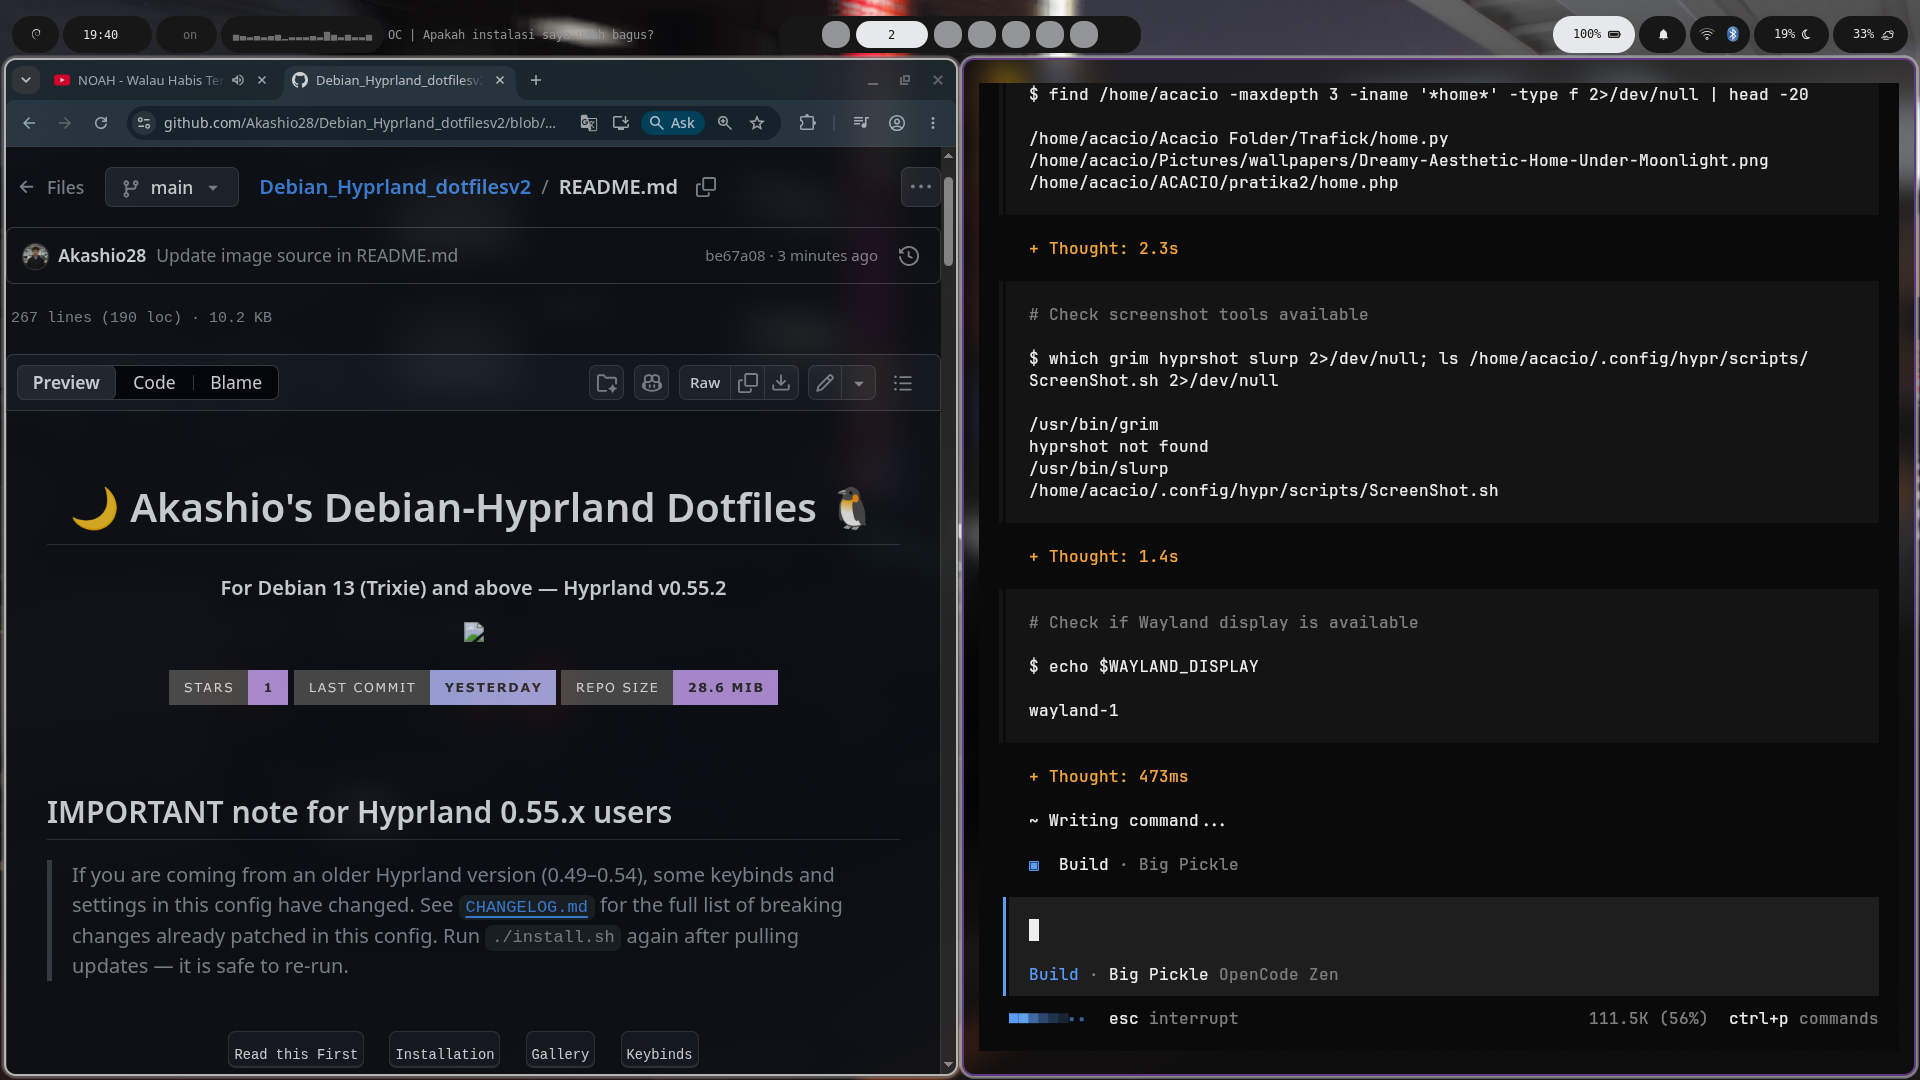
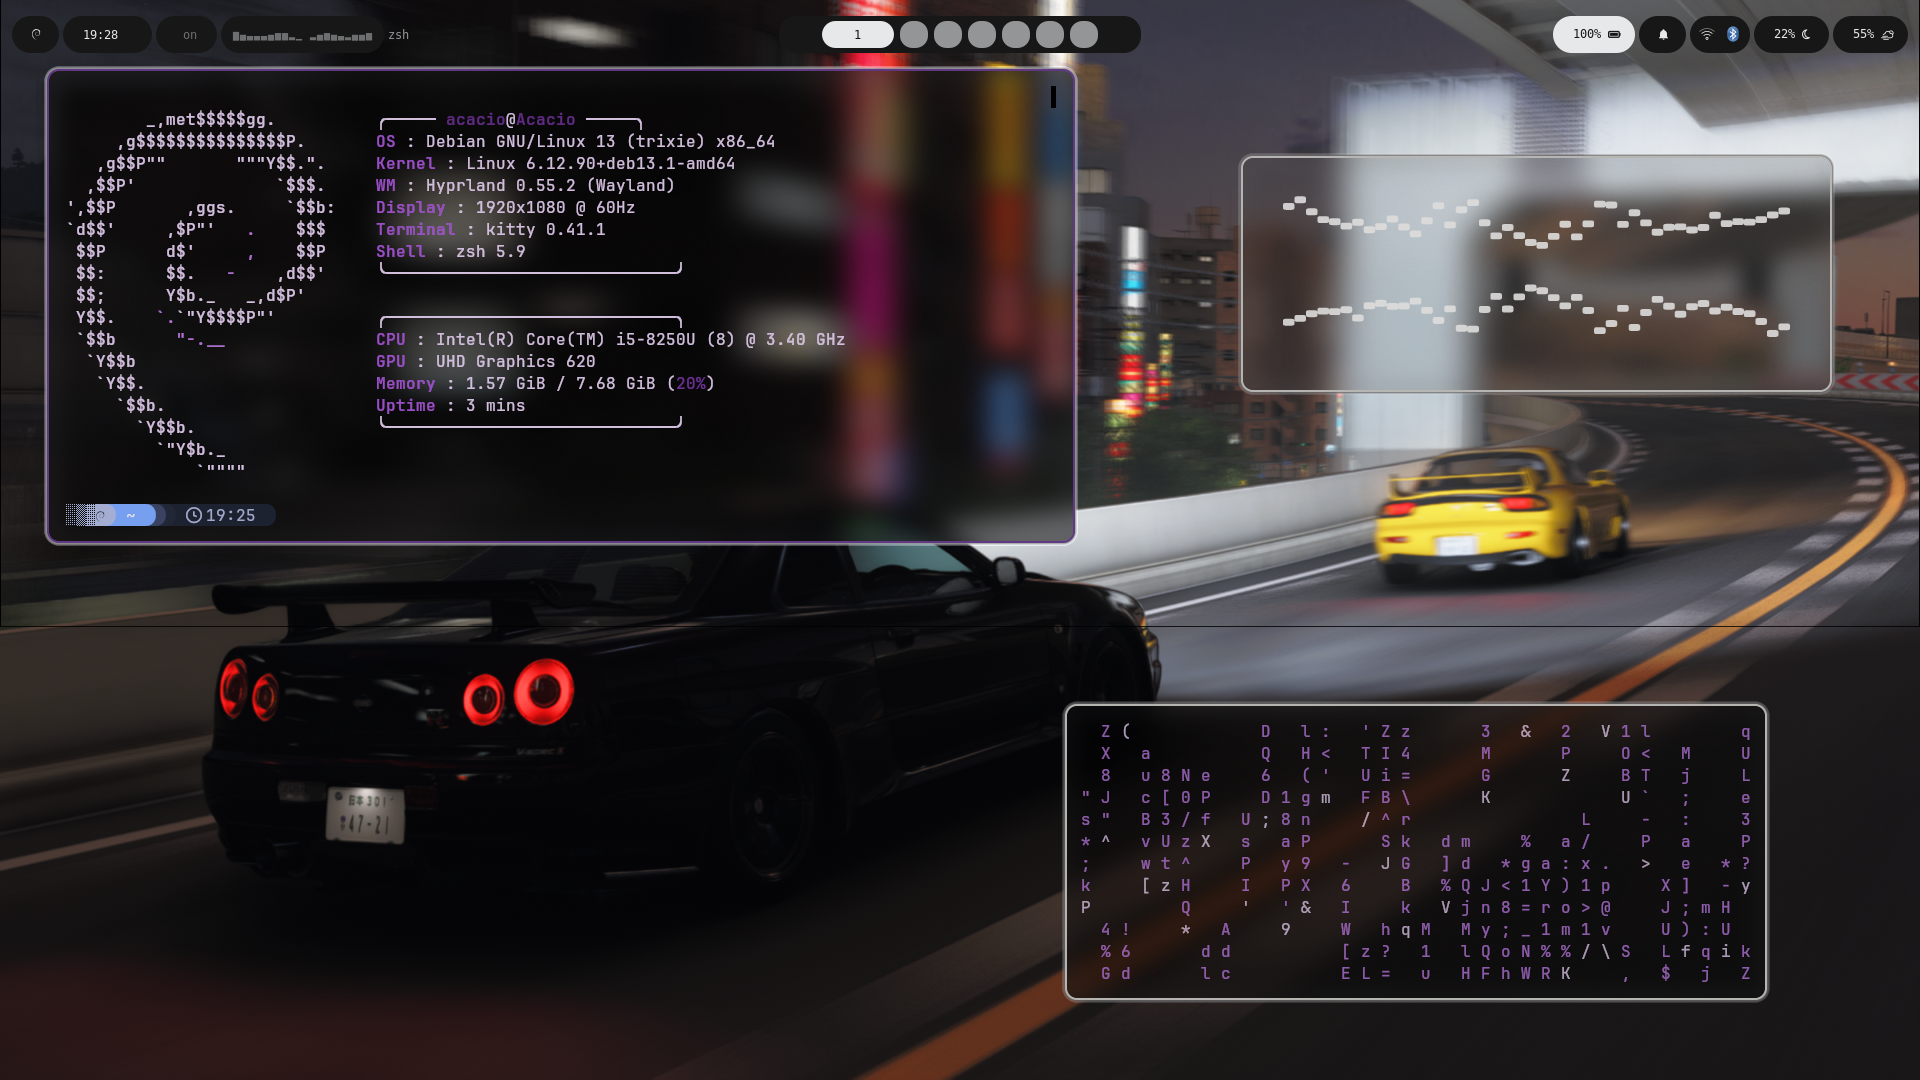
docs: replace first README screenshot with home screenshot

diff --git a/waybar/themes/standar/style.css b/waybar/themes/standar/style.css
@@ -20,10 +20,10 @@ window#waybar {
 
 /* ── TOOLTIP ──────────────────────────────────── */
 tooltip {
-    background: @background;
-    border: 1px solid @color8;
-    border-radius: 12px;
-    padding: 8px;
+    background: #222222;
+    border: 2px solid @color11;
+    border-radius: 16px;
+    padding: 12px;
 }
 tooltip label {
     color: @foreground;
@@ -31,24 +31,27 @@ tooltip label {
 }
 
 #clock calendar {
-    background: @background;
+    background: #222222;
     color: @foreground;
     border: none;
     padding: 8px;
 }
 #clock calendar:selected {
-    color: @foreground;
-    background: @color8;
-    border-radius: 4px;
+    color: #222222;
+    background: @foreground;
+    border-radius: 100px;
 }
 #clock calendar.header {
-    color: @color12;
+    color: @color11;
     font-weight: bold;
     border: none;
 }
 #clock calendar.button {
-    color: @color11;
-    border-radius: 4px;
+    color: @color12;
+    border-radius: 100px;
+}
+#clock calendar.button:hover {
+    background: @color8;
 }
 #clock calendar.highlight {
     color: @color11;